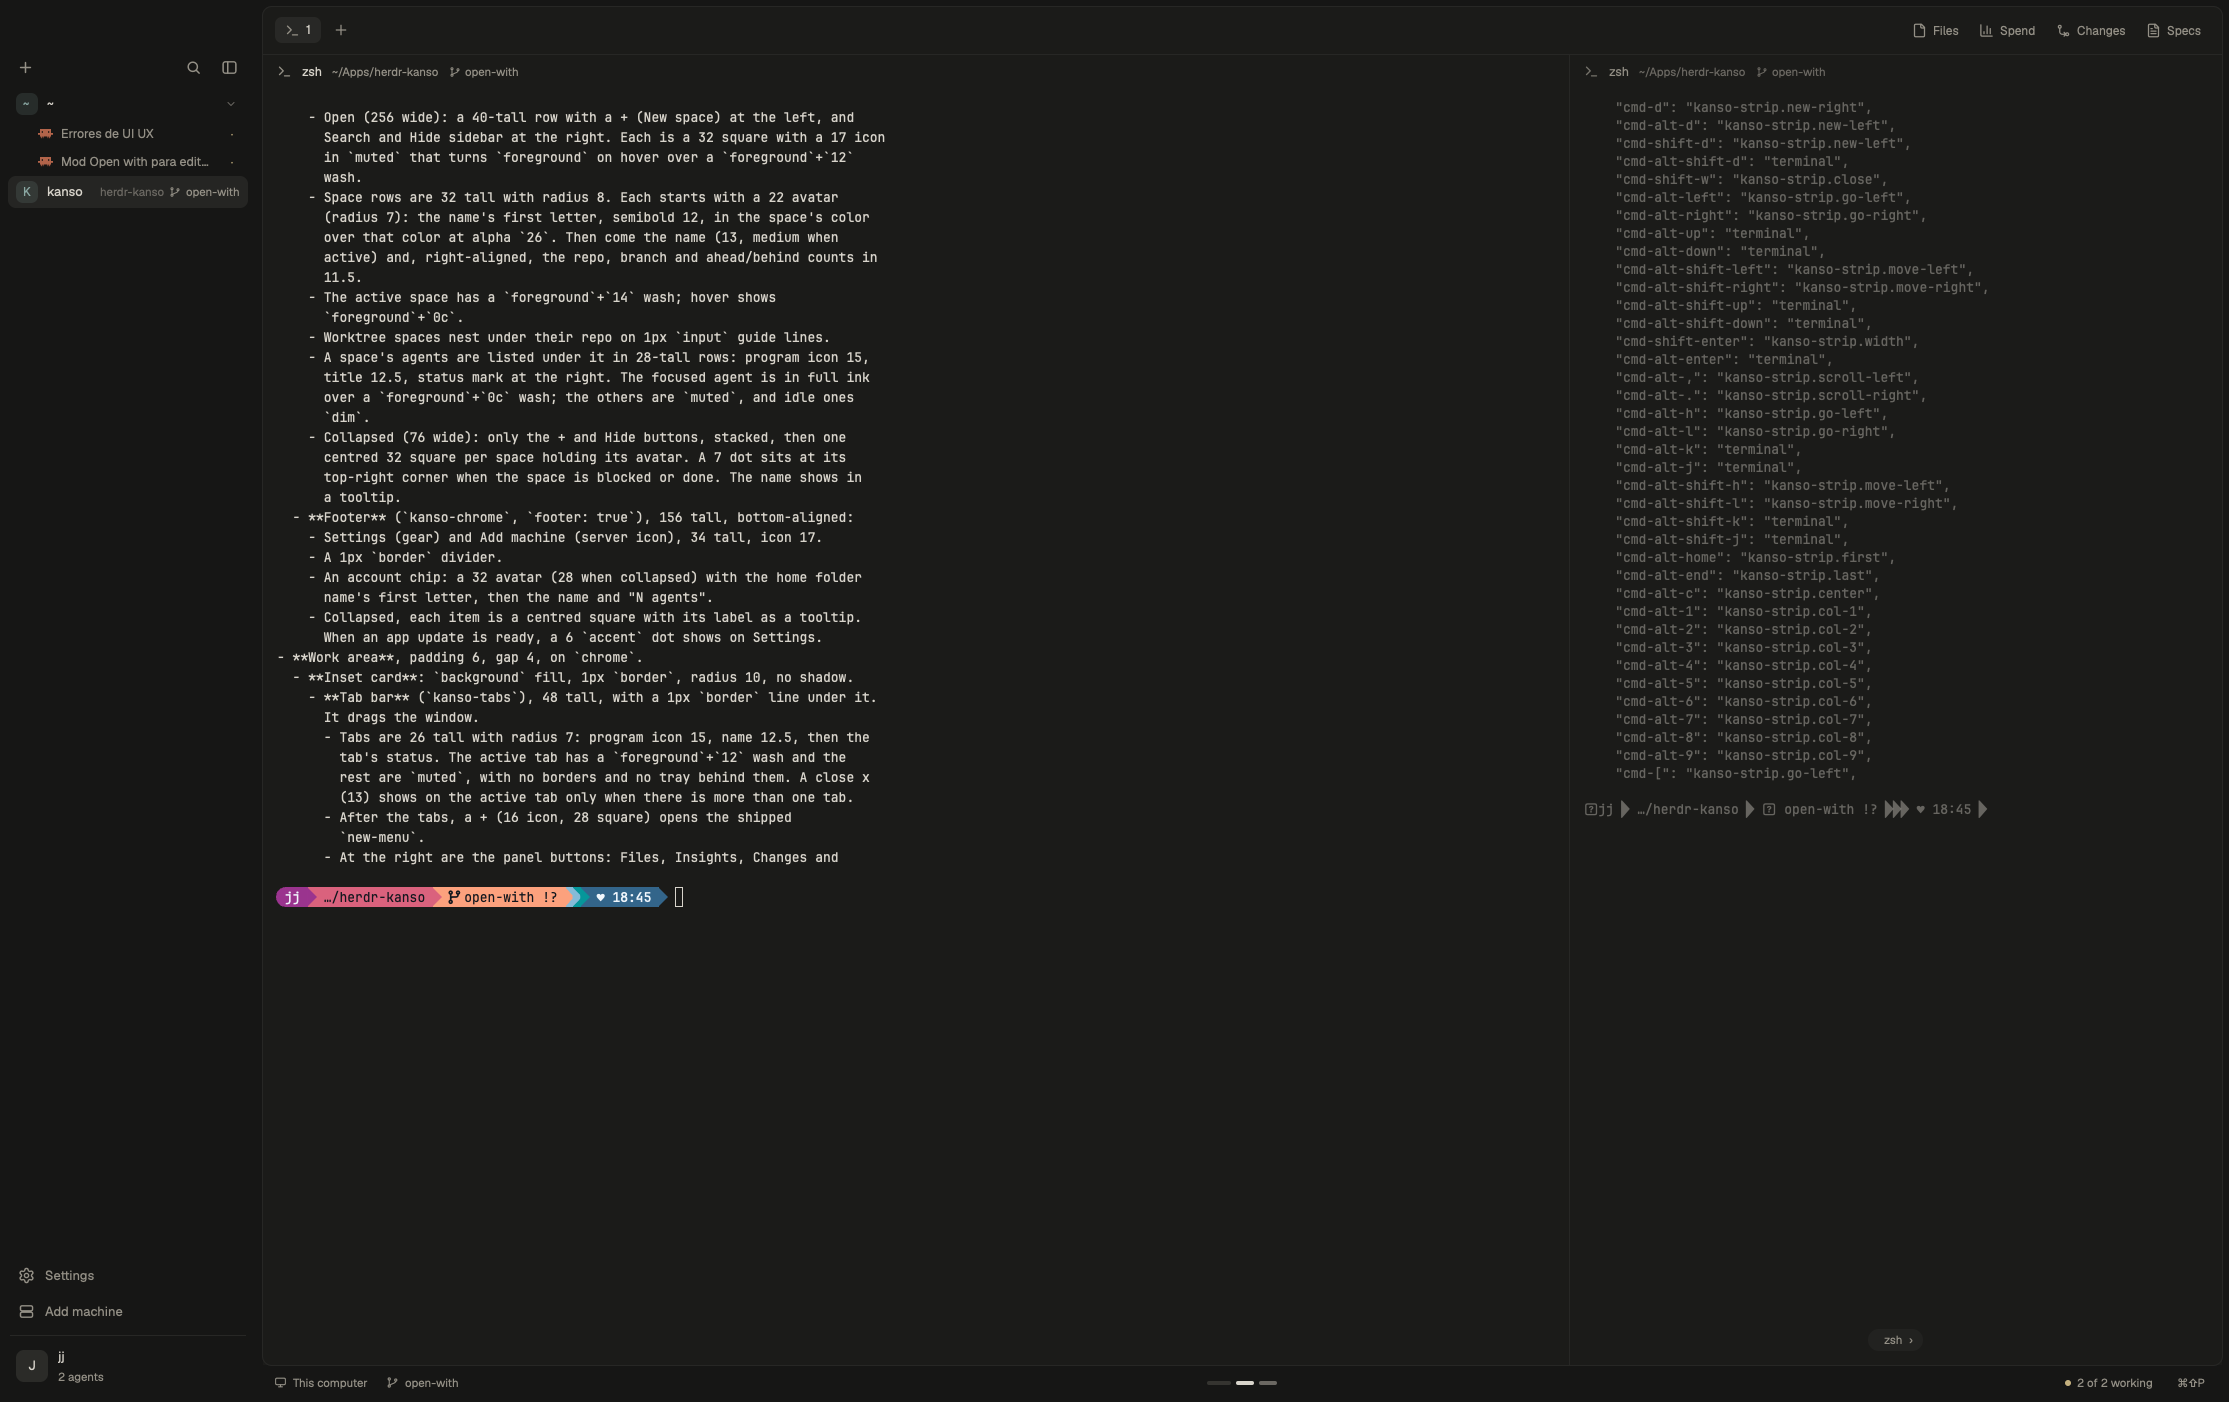
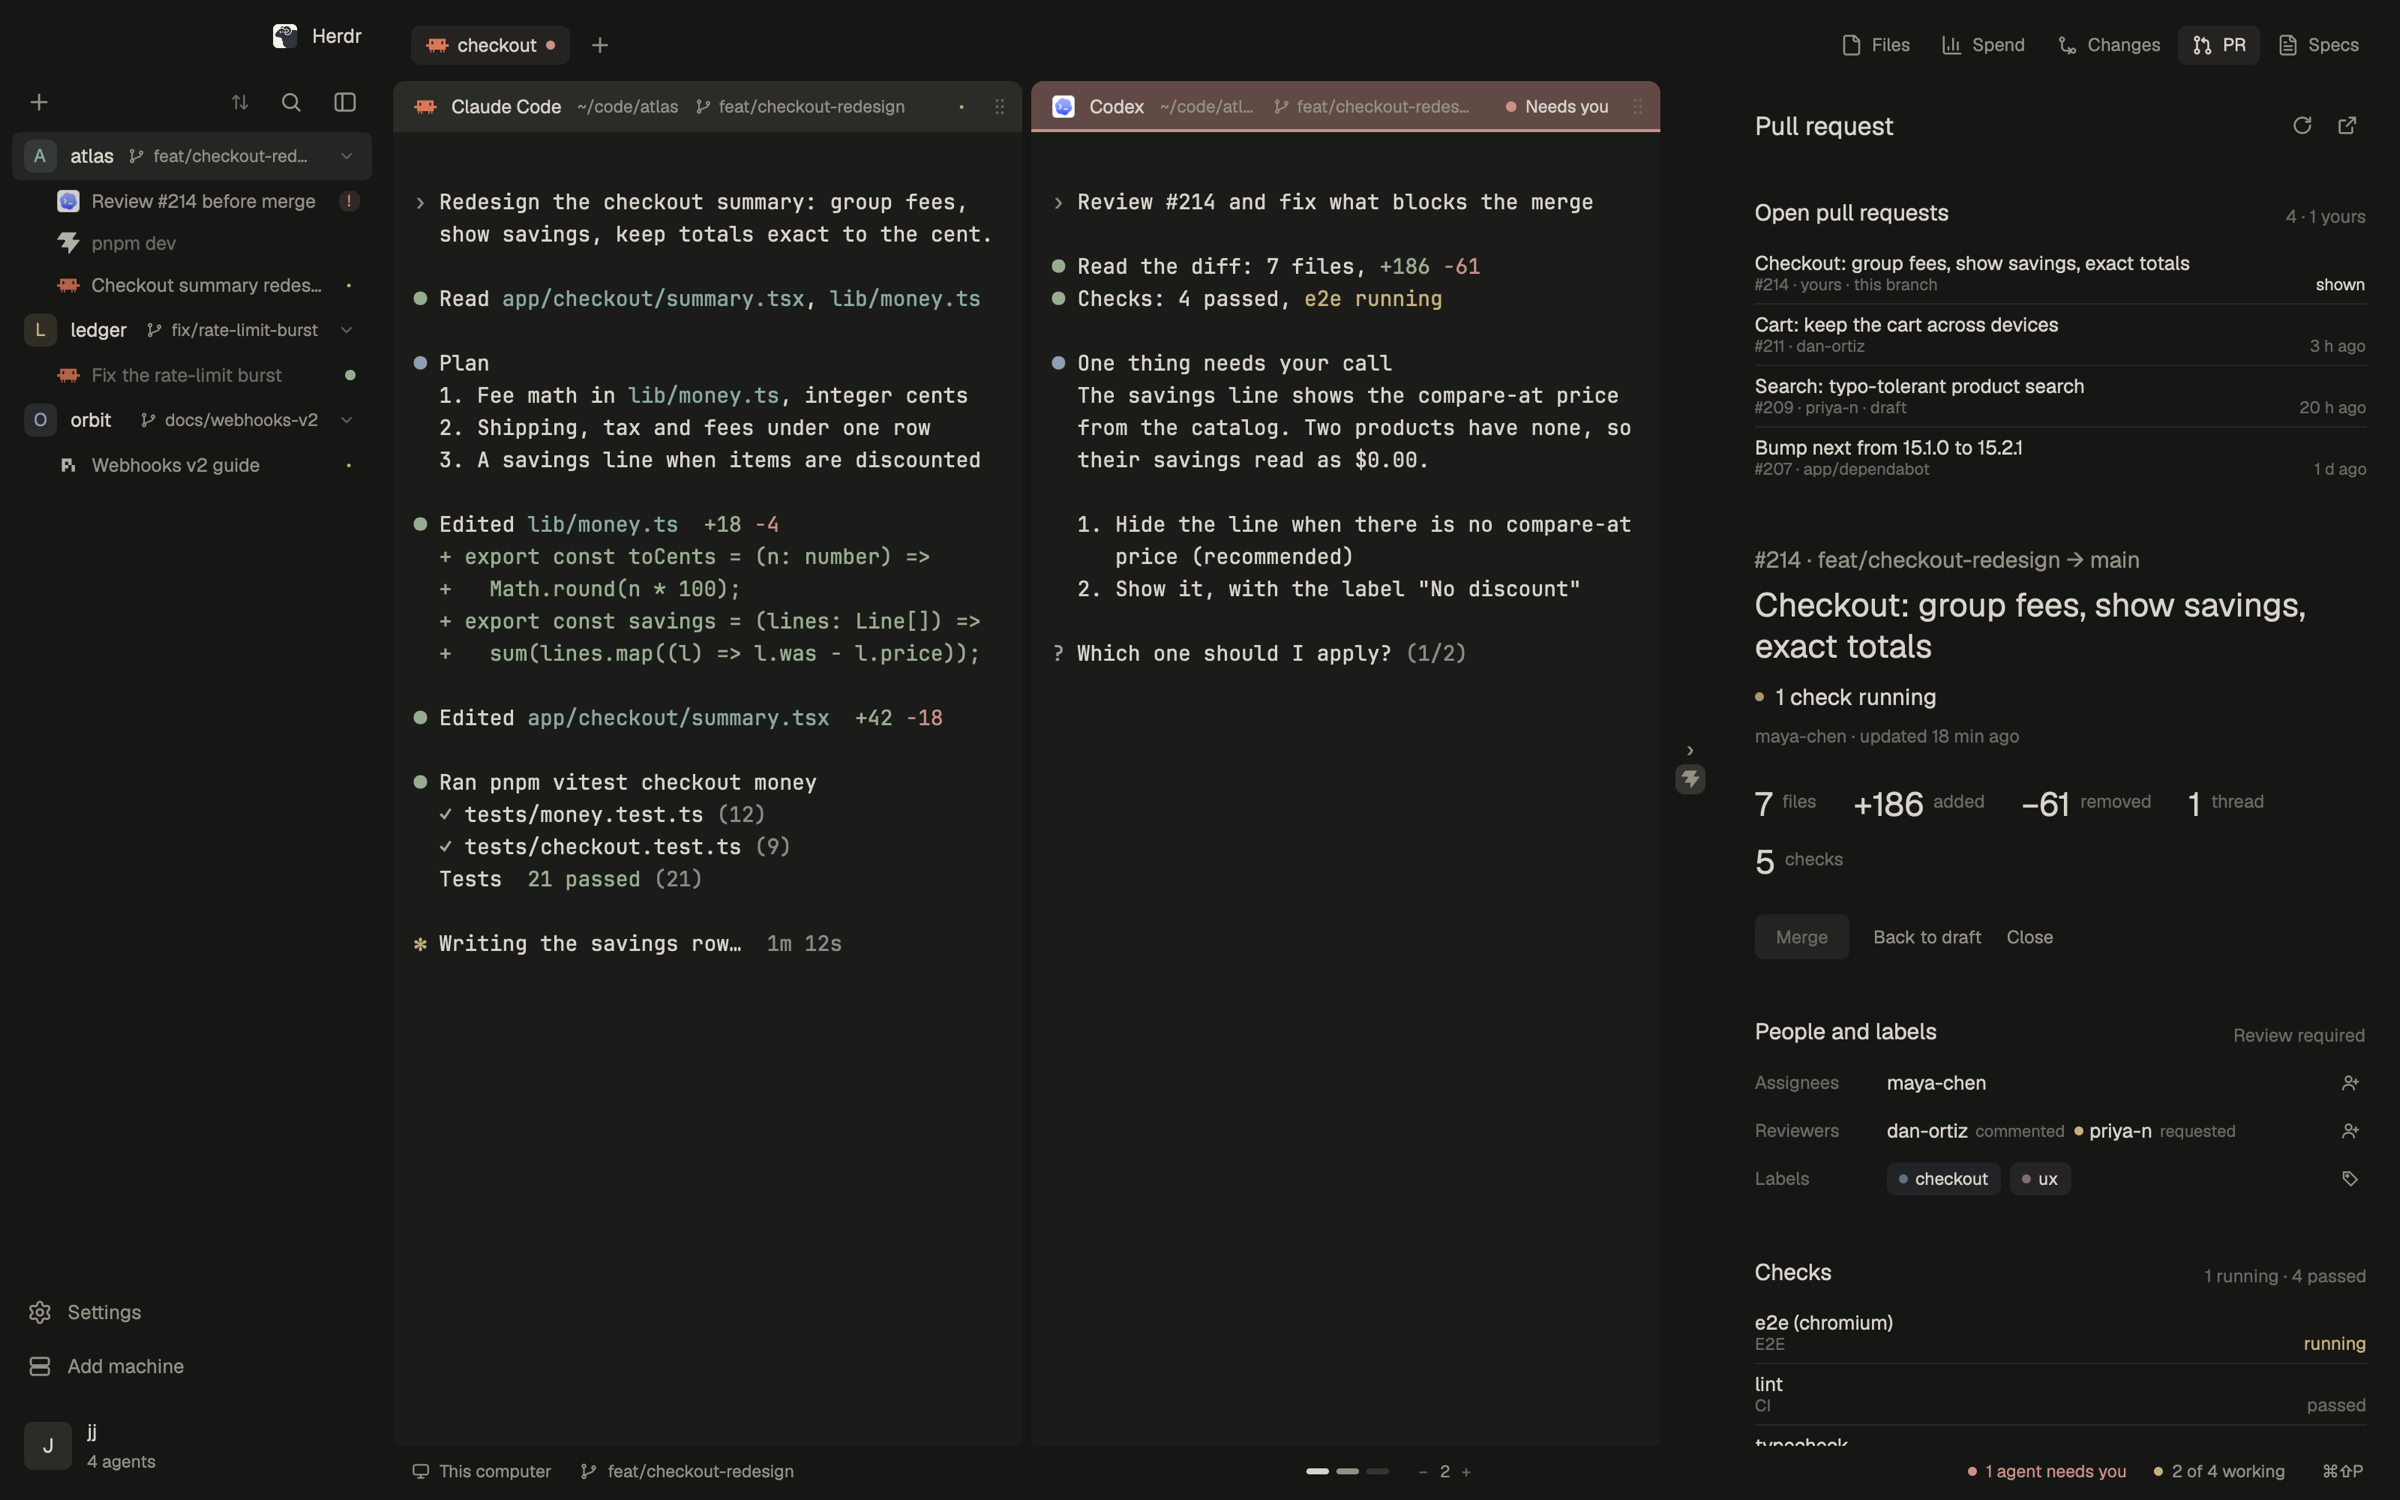
New screenshots: a demo session that shows what Kanso does (#15)
The README opens on a session with three repositories, one agent working and
one waiting for an answer, and the pull request panel; GitHub shows the light
theme to readers in light mode. The strip and the Changes panel get their own
pictures under the points they illustrate. The repositories, agents and pull
requests are a demo, and the README says so.

diff --git a/README.md b/README.md
@@ -3,7 +3,10 @@
 **A calm, fast layout for [Herdr](https://herdr.dev), made for working with
 many coding agents at once.**
 
-![Kanso: the sidebar of spaces and their agents, and two panes side by side on the strip](kanso/preview.png)
+<picture>
+  <source media="(prefers-color-scheme: light)" srcset="docs/screenshots/hero-light.png">
+  <img alt="Kanso: three repositories in the sidebar, two agents side by side (one working, one waiting for your answer) and the pull request panel" src="kanso/preview.png">
+</picture>
 
 Kanso is the Japanese principle of simplicity: remove what is not needed.
 Everything on screen is there because you need it now, and nothing you are not
@@ -19,11 +22,15 @@ looking at keeps running.
   opens beside the one you are in, at its own width, and the view slides to
   it. Pick how many fit the view (1 to 8); a slim rail at the edge shows what
   lies beyond, and a minimap shows where you are.
+
+  ![Three panes on the strip: an agent at work, an agent waiting for you, and a dev server](docs/screenshots/strip.png)
 - **Review the work without leaving.** Side panels for **Files** (with
   Markdown and code preview), **Changes** (diffs and a commit) and **Pull
   requests**: every open one in the repository, with checks, unresolved
   threads, reviewers, labels and merge, and one click to ask your agent to
   explain a pull request, address its feedback or resolve its conflicts.
+
+  ![The Changes panel beside two agents: the files a branch changed and their diff](docs/screenshots/changes.png)
 - **Light on your machine.** Side panels exist only while open, background
   checks slow down when the window is behind others, and the Files tree draws
   only the rows on screen: 78% less CPU on a 500-row tree, and a 50,000-file
@@ -33,6 +40,8 @@ looking at keeps running.
   a JetBrains IDE, Xcode, or Neovim, Helix and Vim in a split.
 - **Keyboard first, mouse friendly.** Every move has a key; panes also drag,
   resize and pin with the mouse.
+
+The repositories, agents and pull requests in these screenshots are a demo.
 
 ## Install
 
